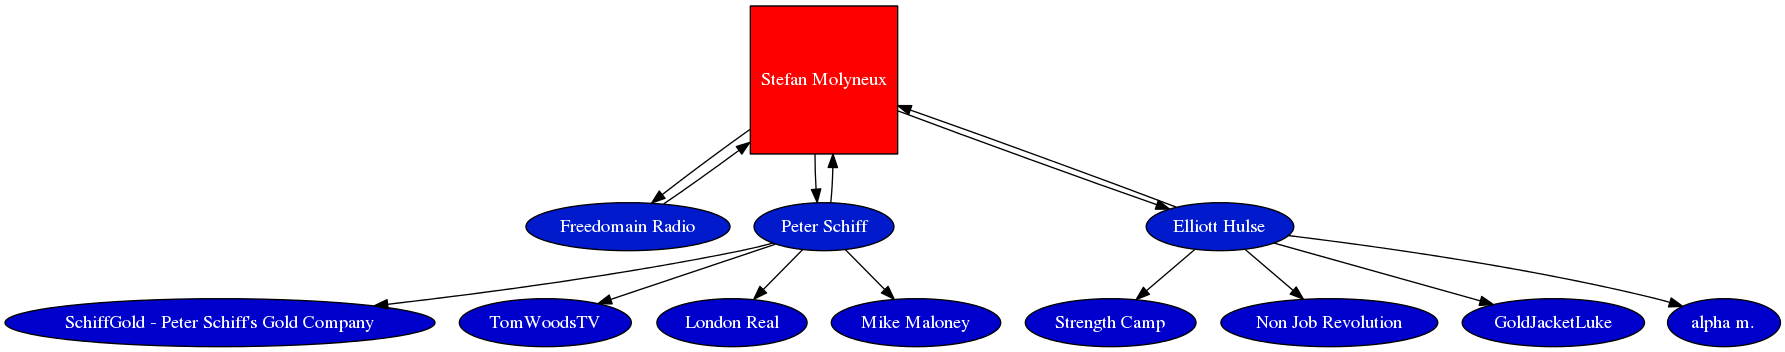
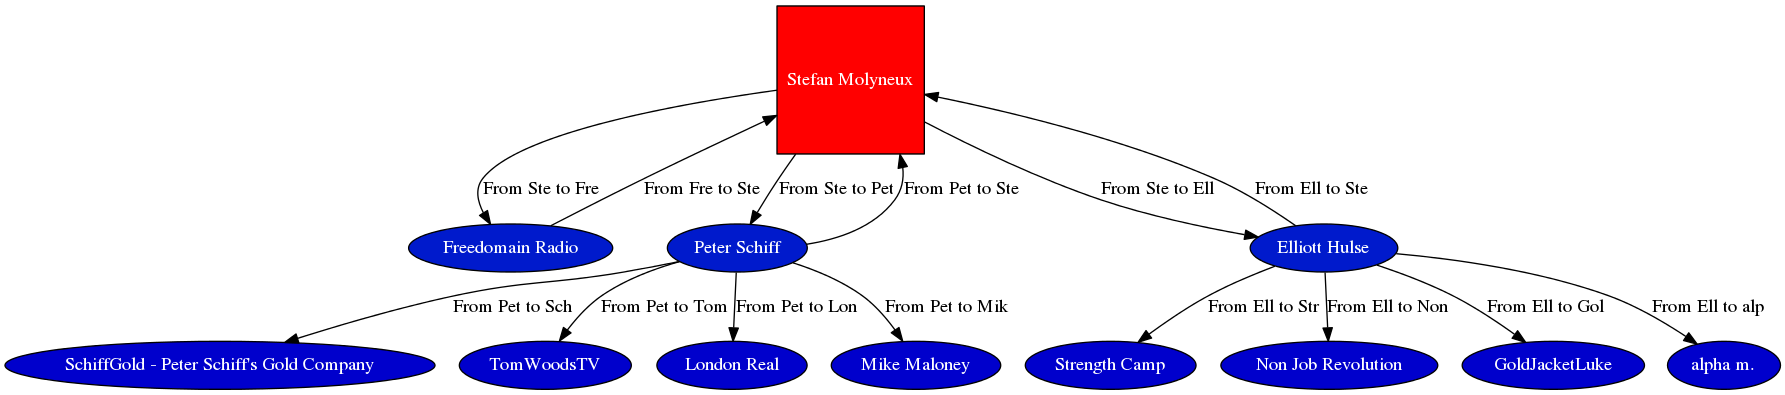
The class wanted edges

diff --git a/graph/graph/youtube.py b/graph/graph/youtube.py
@@ -72,7 +72,9 @@ def printChannelGraph(rootUrl,depth,maxDepth,outputFile,titleDepth):
             minDepth = min(titleDepth[titleTo],minDepth)
         else:
             titleDepth[titleTo]=minDepth
-        outputFile.write('"'+title+ '" -> "'+titleTo+'";\n')
+        
+        label='From '+title[0:3]+' to '+titleTo[0:3]
+        outputFile.write('"'+title+ '" -> "'+titleTo+'" [label = "'+label+'"];\n')
         outputFile.write('"'+titleTo+ '" '+getColorFromDepth(minDepth,maxDepth)+'\n')
         printChannelGraph(url,depth,maxDepth,outputFile,titleDepth)
 
